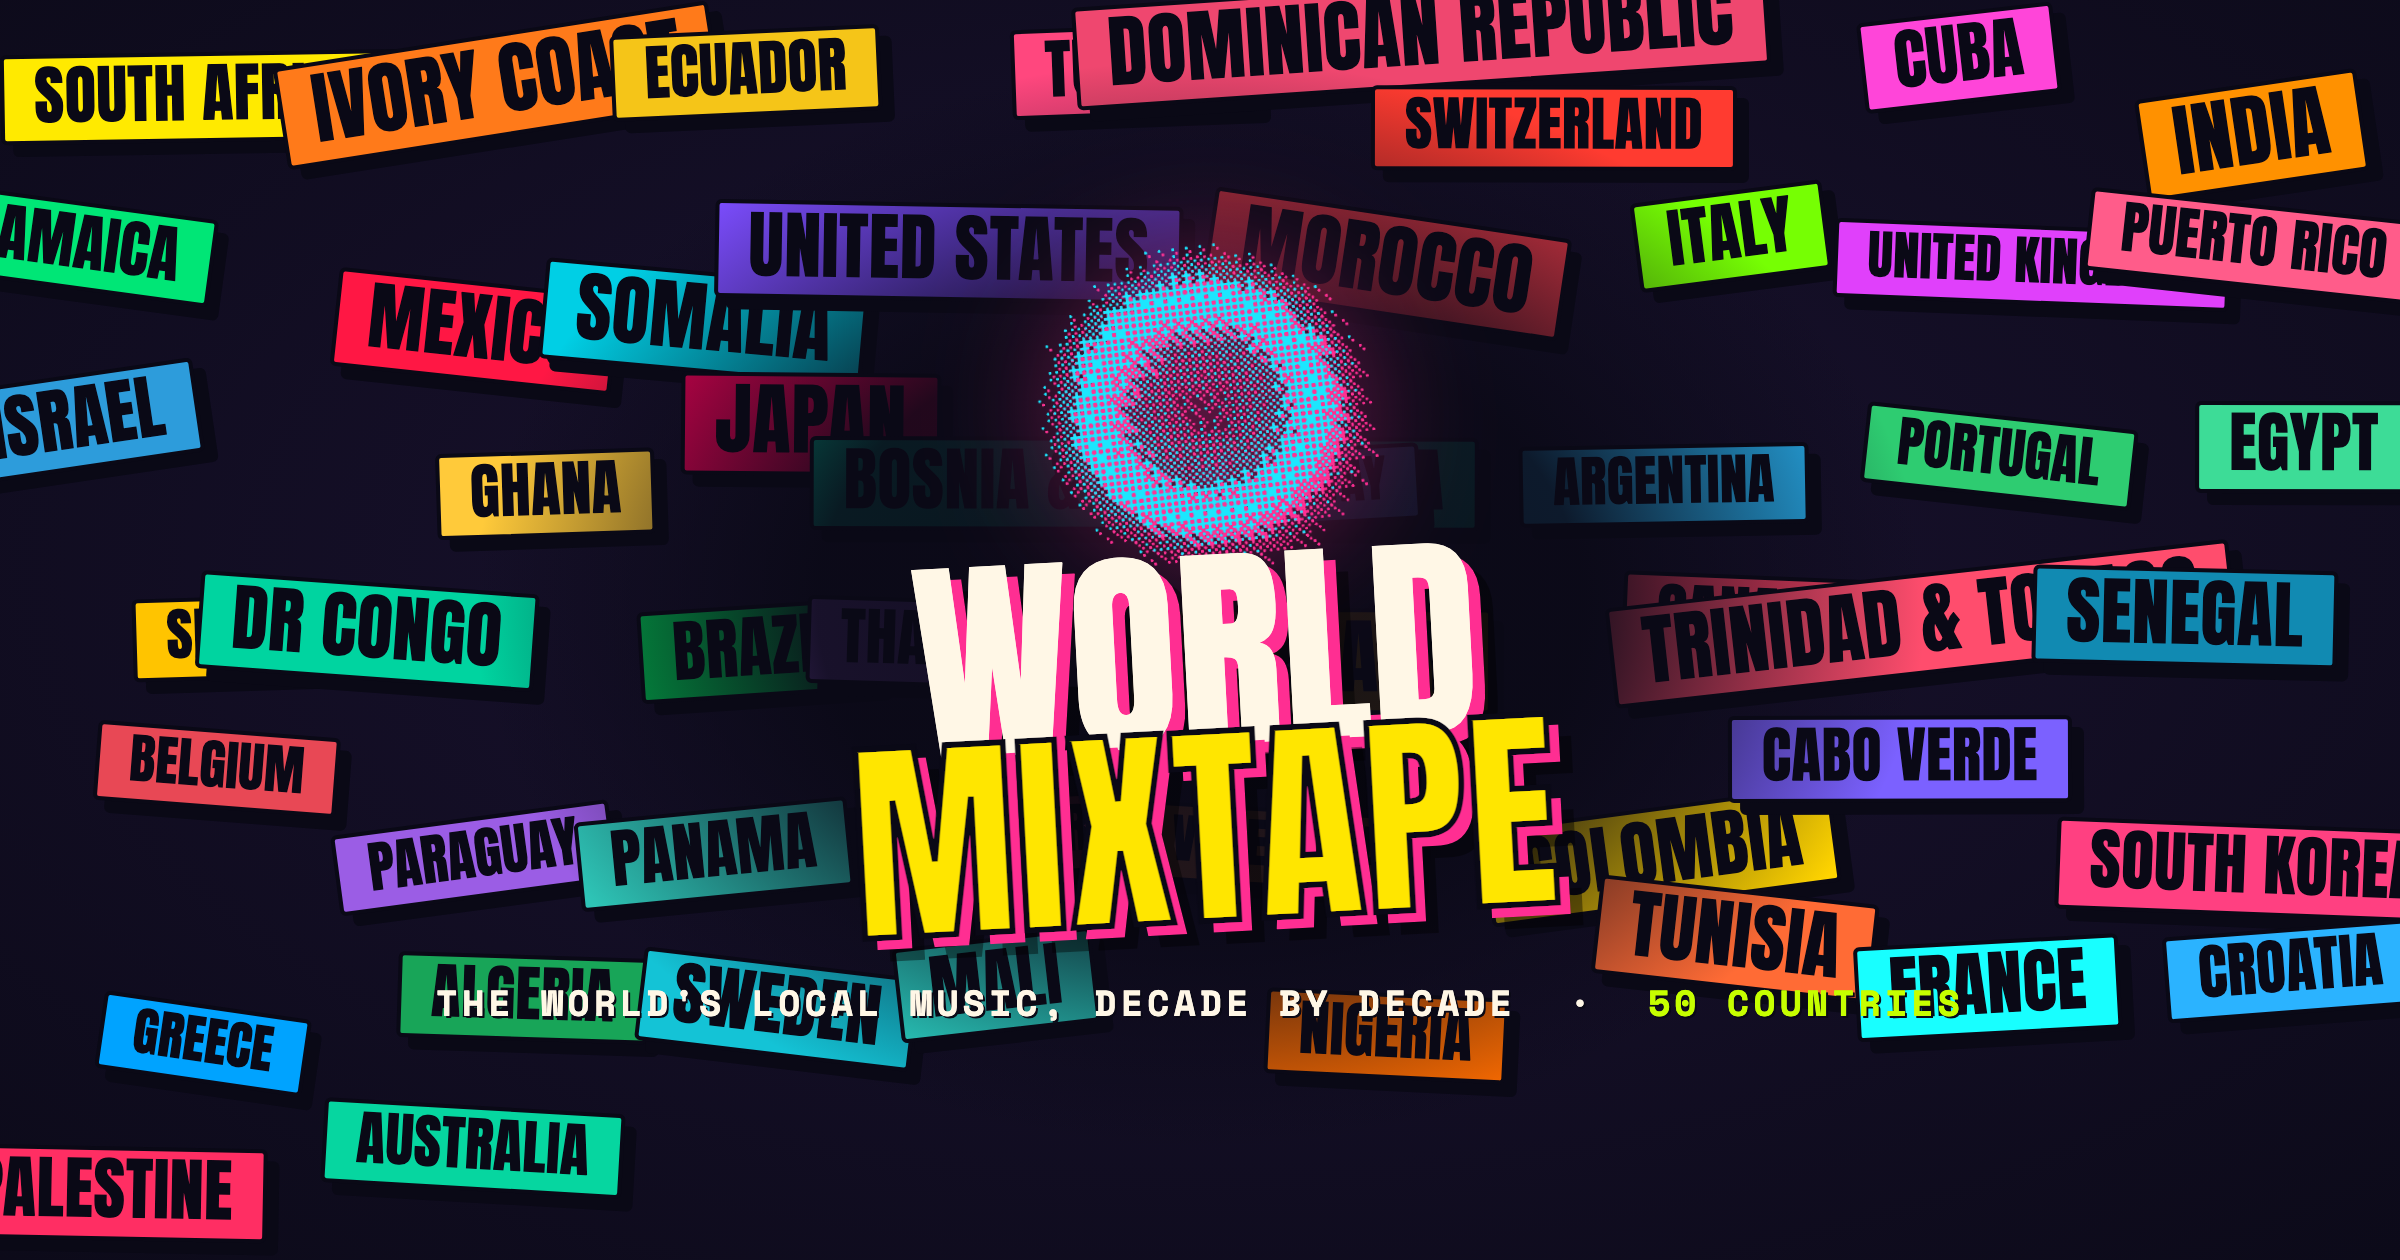
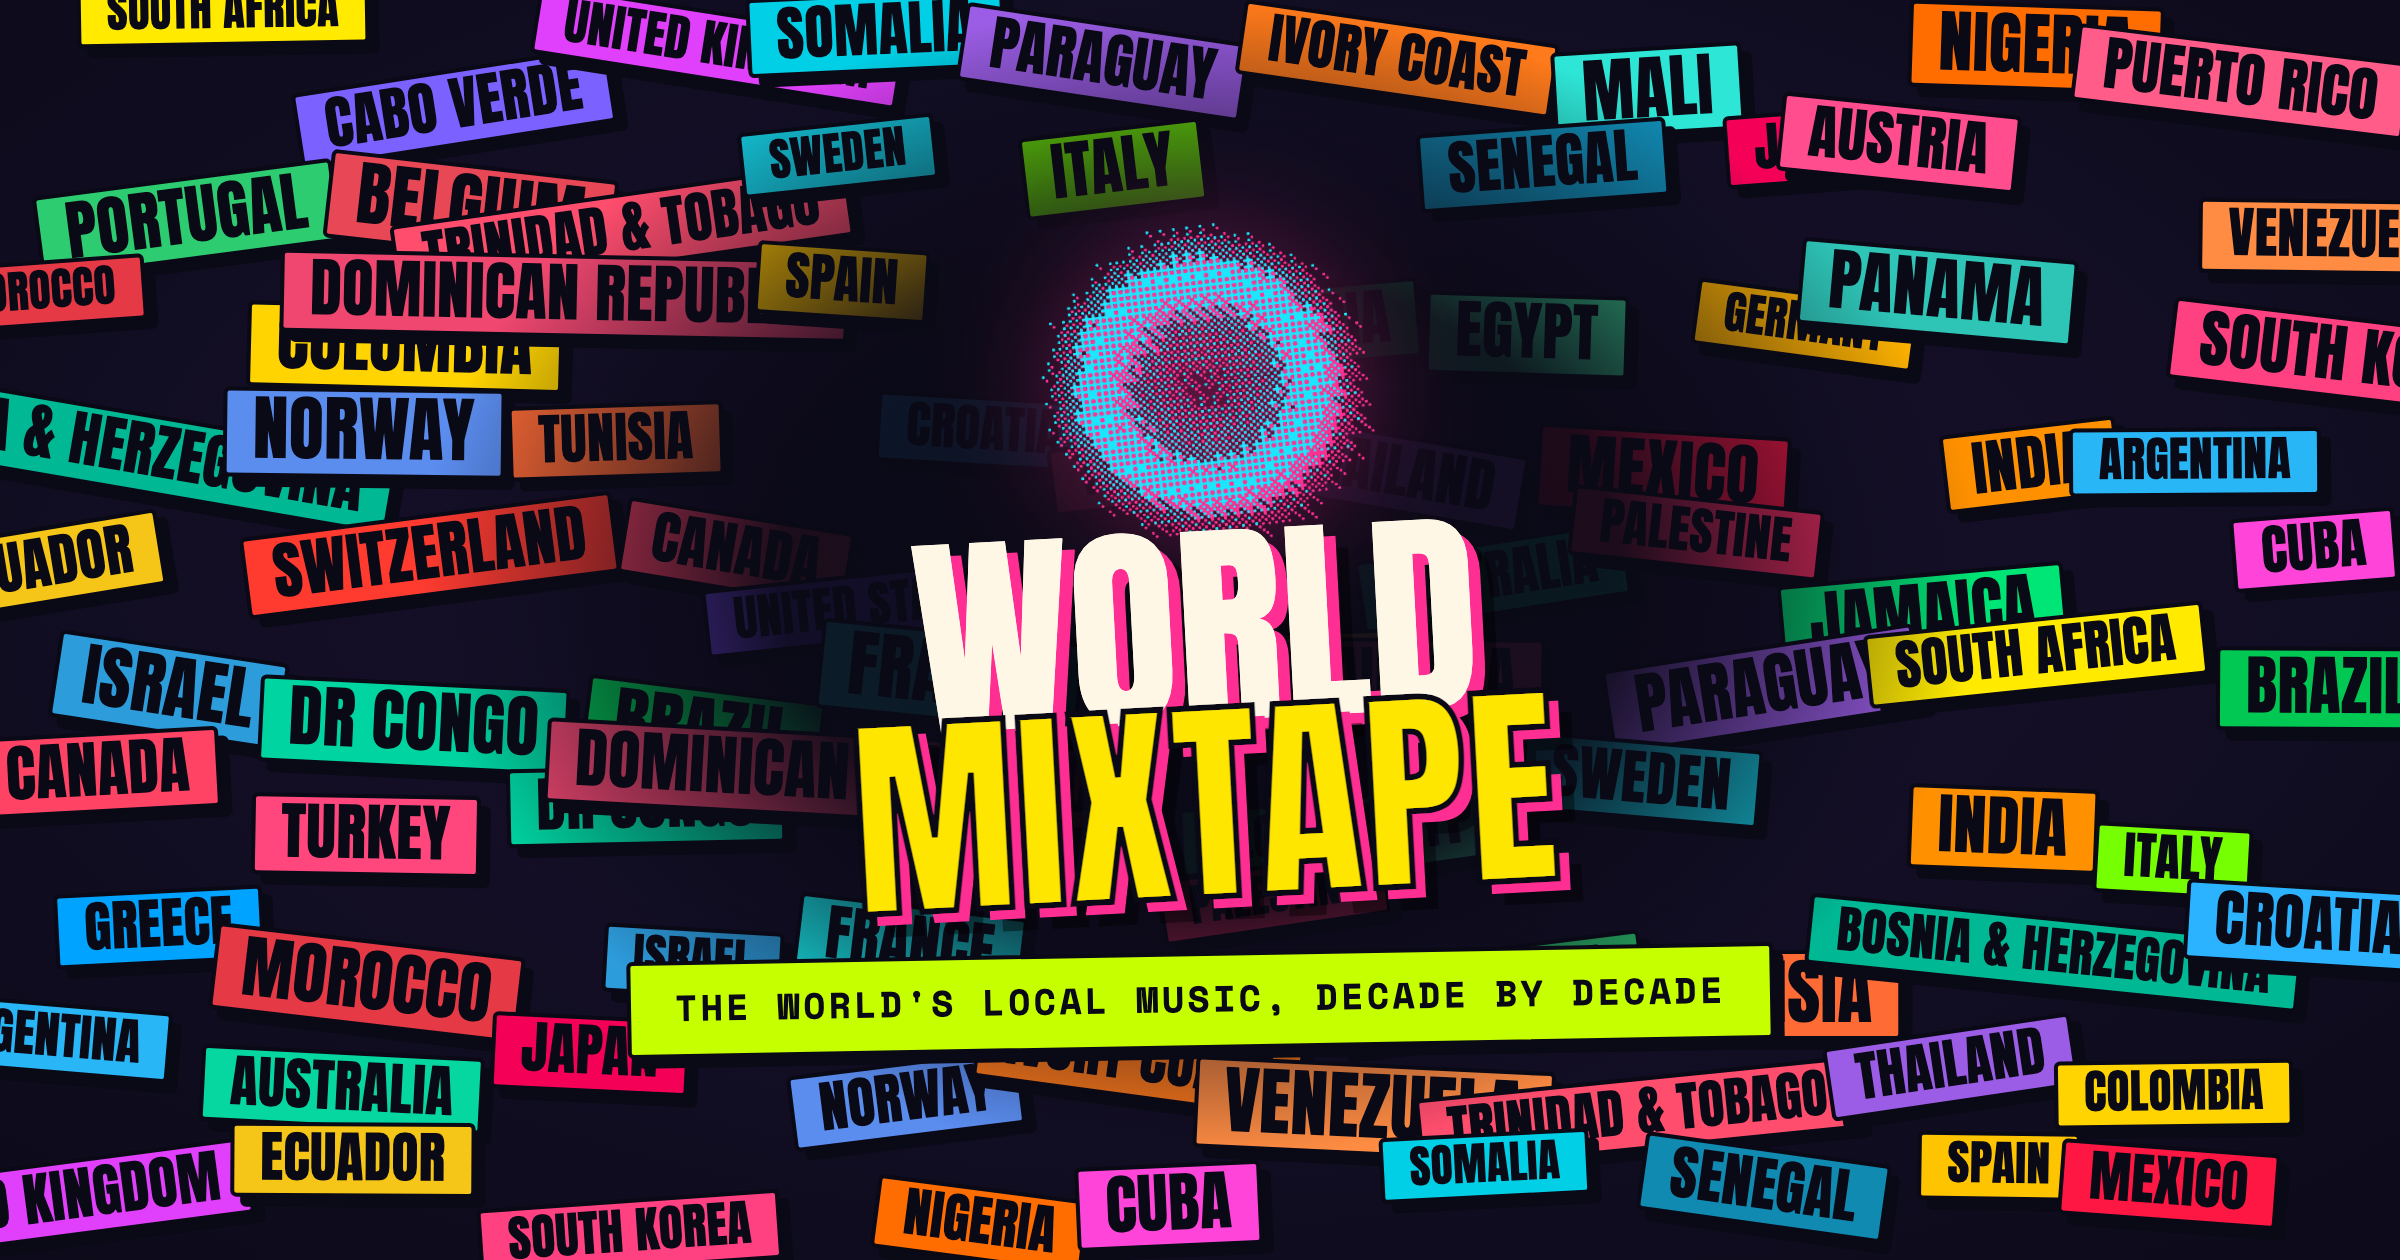
OG image: denser country-card fill, lime tagline strip, drop '50 countries'

diff --git a/index.html b/index.html
@@ -16,13 +16,13 @@
 <meta property="og:url" content="https://worldmixtape.com/" />
 <meta property="og:title" content="WORLD MIXTAPE — every country's local music, decade by decade" />
 <meta property="og:description" content="Spin the globe: 50 countries, 7,000+ local songs, a century of sound. Natives + diaspora, no imports." />
-<meta property="og:image" content="https://worldmixtape.com/og-image.png?v=1" />
+<meta property="og:image" content="https://worldmixtape.com/og-image.png?v=2" />
 <meta property="og:image:width" content="2400" />
 <meta property="og:image:height" content="1260" />
 <meta name="twitter:card" content="summary_large_image" />
 <meta name="twitter:title" content="WORLD MIXTAPE — every country's local music, decade by decade" />
 <meta name="twitter:description" content="Spin the globe: 50 countries, 7,000+ local songs, a century of sound." />
-<meta name="twitter:image" content="https://worldmixtape.com/og-image.png?v=1" />
+<meta name="twitter:image" content="https://worldmixtape.com/og-image.png?v=2" />
 </head>
 <body>
   <!-- film-grain + halftone overlays -->